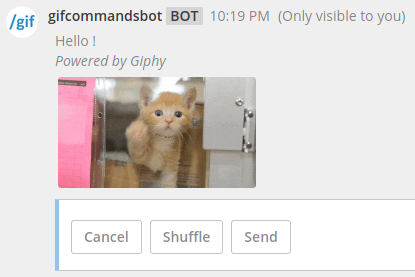
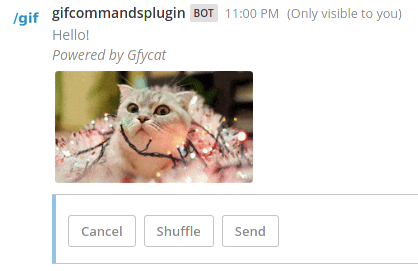
Doc: update README and demo screenshots to use Gfycat as default

diff --git a/README.md b/README.md
@@ -7,11 +7,9 @@ A Mattermost plugin to post GIFs from **Gfycat, Giphy or Tenor** with slash comm
 ## Usage
 
 ### Plugin v2.0.0 & higher
-Use the command `/gif "<keywords>" "<custom caption>"` to search for a GIF and shuffle through GIFs until you find one you like.
+Use the command `/gif "<keywords>" "<custom caption>"` to search for a GIF and shuffle through GIFs until you find one you like. You can also use `/gif <keywords>` if you don't want to add a custom caption.
 
-Example with `/gif "waving cat" "Hello !"` : 
-
-First choose a GIF, using the Shuffle button to see others GIFs: 
+Example: first choose a GIF with `/gif "waving cat" "Hello!"` and use the Shuffle button to browse others GIFs:
 
 ![demo](assets/demo_preview.png)
 
@@ -19,9 +17,7 @@ Then post the GIF you want using the Send button:
 
 ![demo](assets/demo_post.png).
 
-If you don't want to put a special caption, you can also just use `/gif <keywords>`.
-
-*If you prefer the `/gif` (post GIF without preview) / `/gifs` (preview and choose GIF before posting) as in the previous versions of the plugin, you can disable the 'Force GIF preview before posting' in the plugin configuration.*
+*If you prefer having both the `/gif` (post GIF without previewing!) AND `/gifs` (preview and choose GIF before posting) as in the previous versions of the plugin, you can disable the 'Force GIF preview before posting' in the plugin configuration.*
 
 ### Older versions
 
